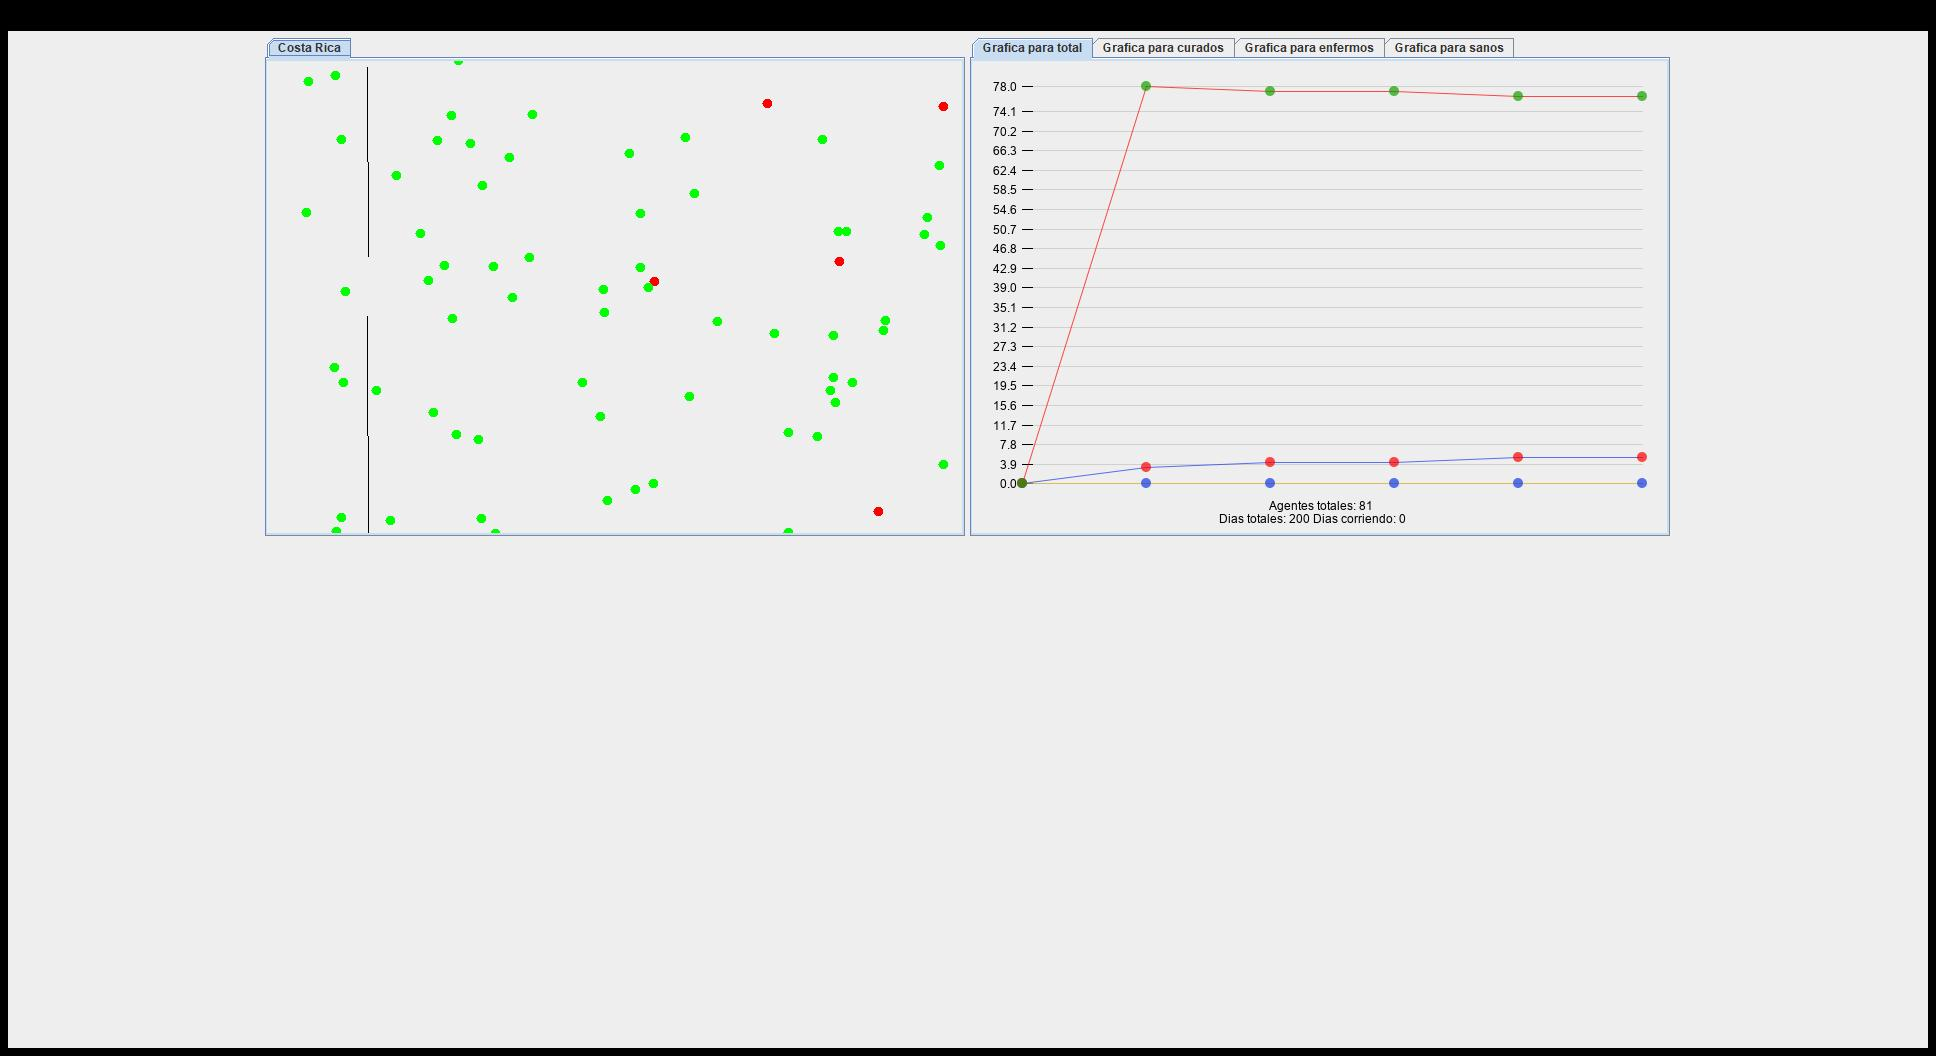
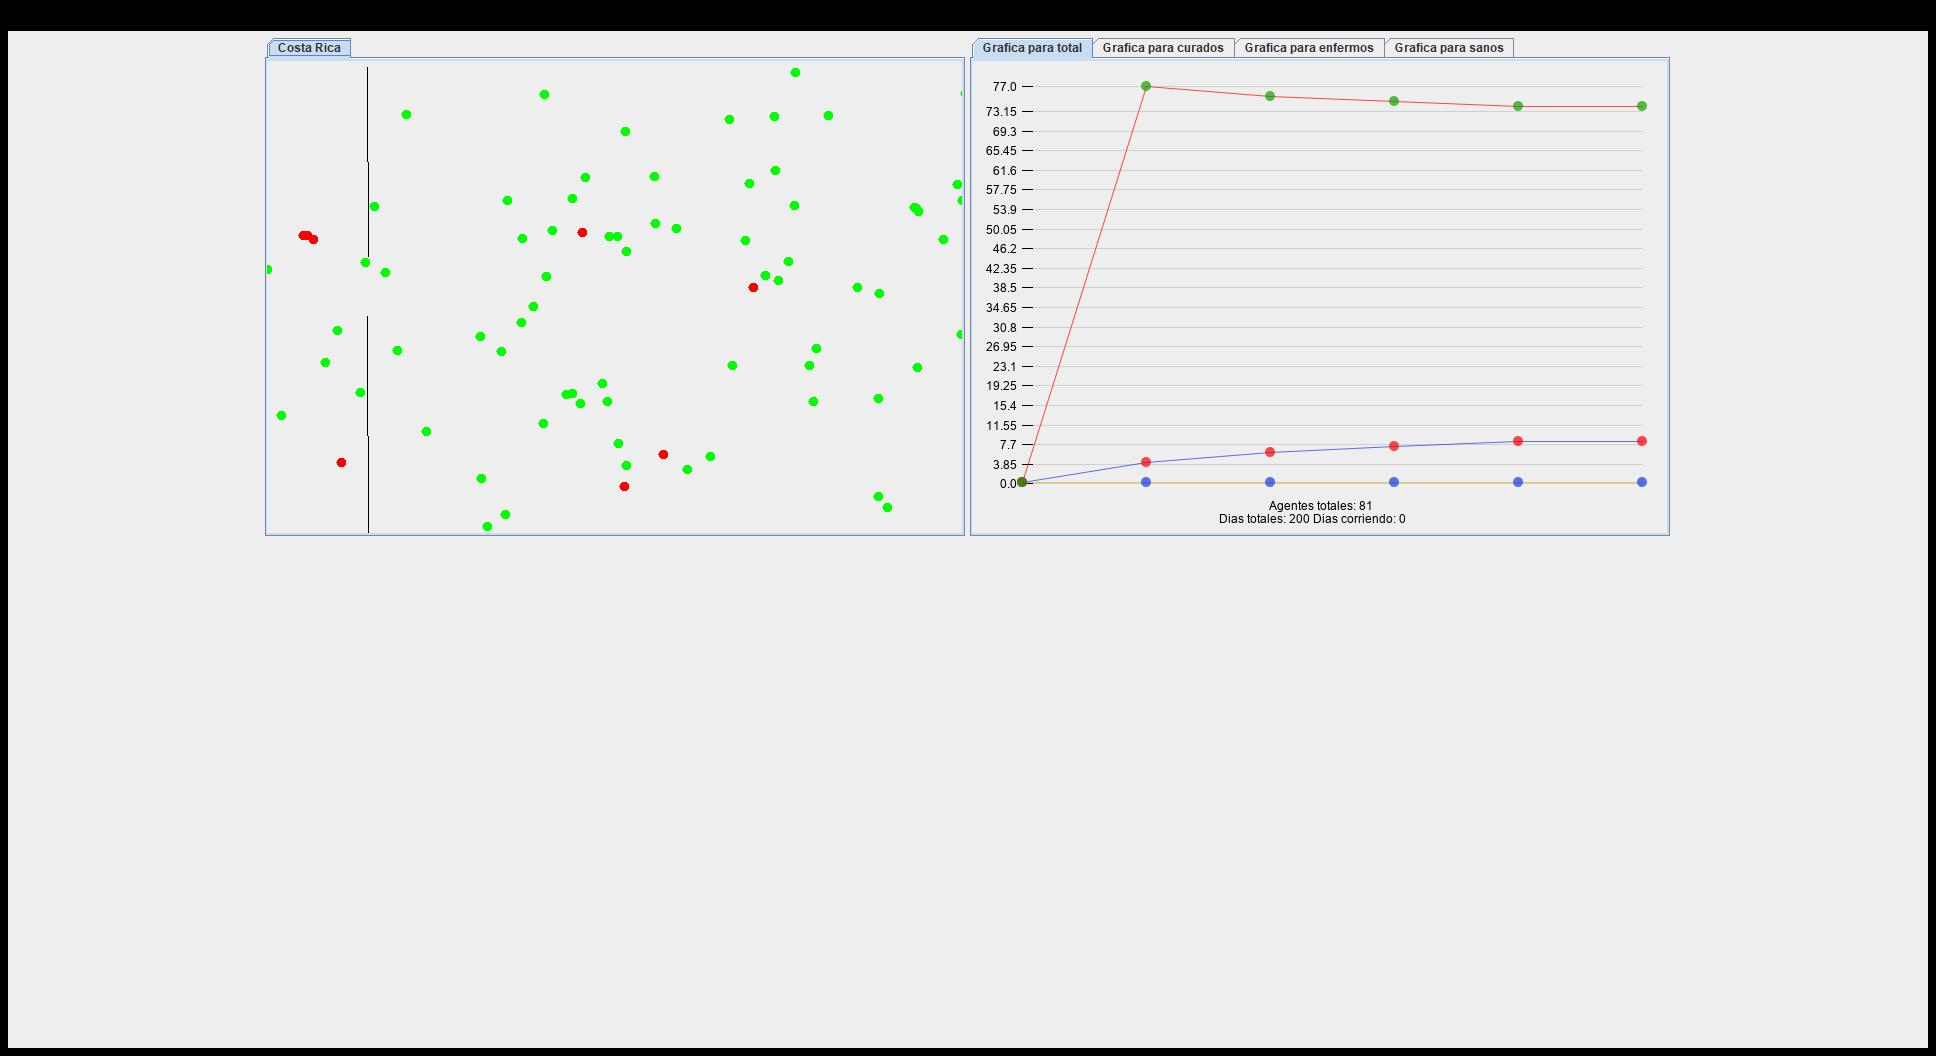
cambio en actualizacion
cambio en actualizacion

diff --git a/src/Multimap/GuiMapMulti.java b/src/Multimap/GuiMapMulti.java
@@ -140,13 +140,10 @@ public class GuiMapMulti extends JPanel implements ActionListener {
             if(datos_progresivos_de_la_enfermedad.getDias()%100 == 0){
                 listaGrafico.add(datos_progresivos_de_la_enfermedad.getDias()/100);
                 listaGrafico.add(datos_progresivos_de_la_enfermedad.getCantidad_de_enfermos().get(datos_progresivos_de_la_enfermedad.getCantidad_de_enfermos().size()-1));
-                // Esta función actualiza los datos del día; esto es necesario para poder actualizar la gráfica en tiempo real
-                actualizar_datos_progresivos();
-            }
-            if(datos_progresivos_de_la_enfermedad.getDias()%25 == 0){
-                actualizar_datos_progresivos();
-            }
 
+            }
+            // Esta función actualiza los datos del día; esto es necesario para poder actualizar la gráfica en tiempo real
+            actualizar_datos_progresivos();
         }
 
         // Se actualiza el frame cada vez que una persona se mueve y los datos de las gráficas cambian
